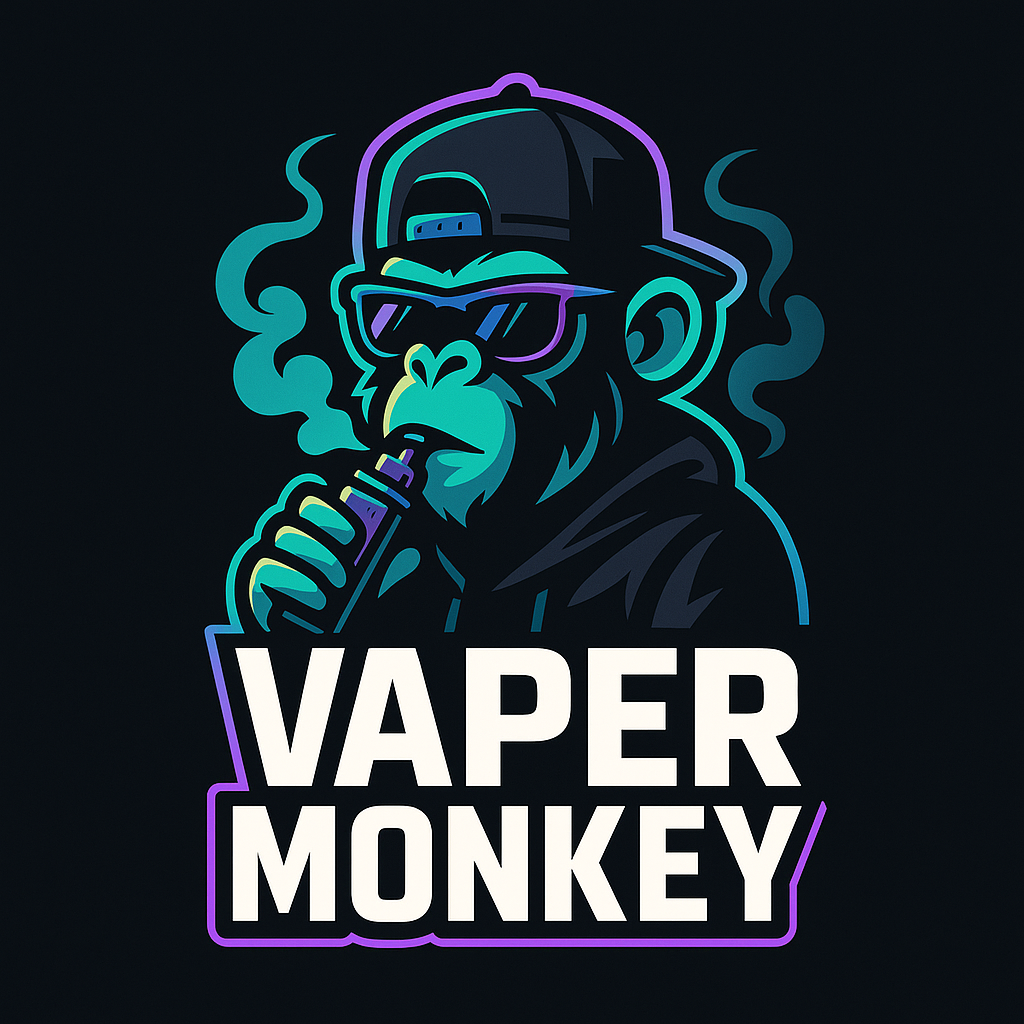
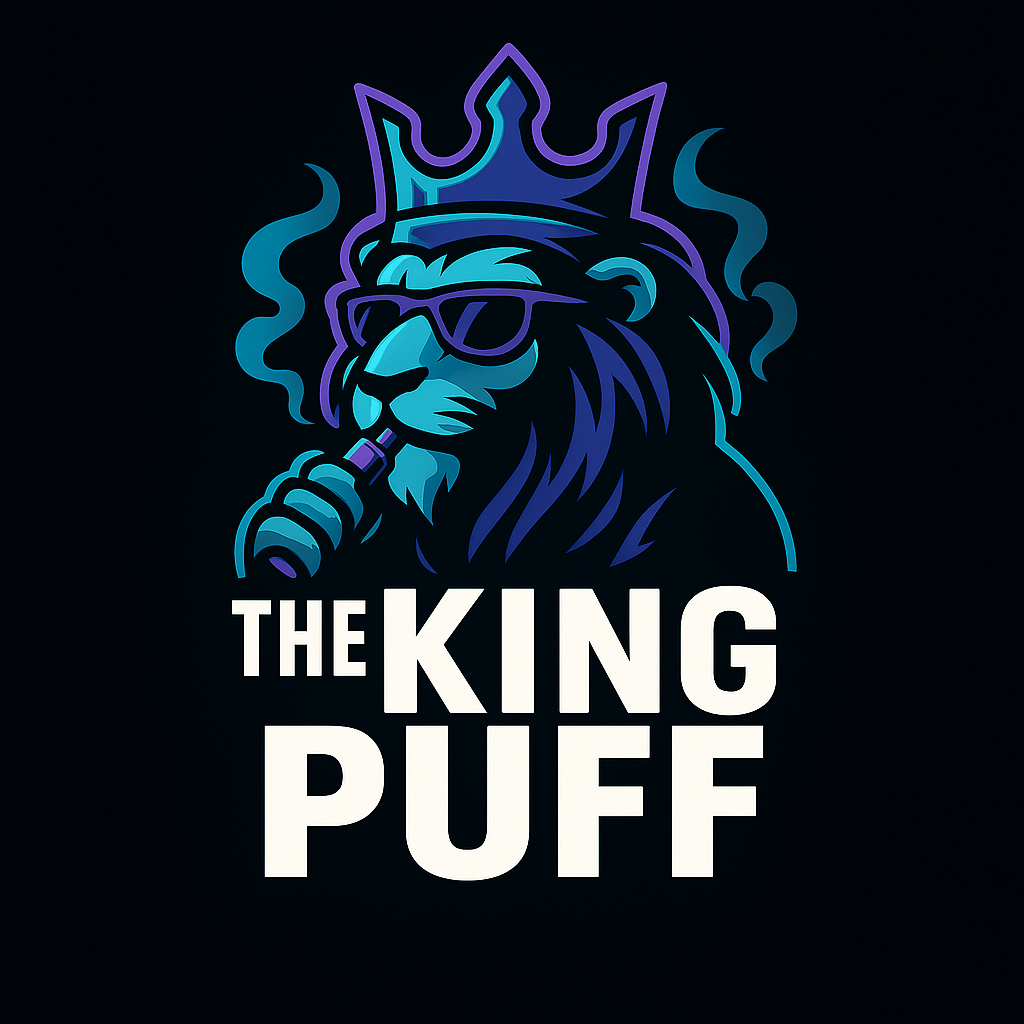
Projecto Acabado 1/1

Changed region(s): [[0.1875, 0.0312, 0.8125, 0.9375]]

diff --git a/index.html b/index.html
@@ -2,7 +2,7 @@
 <html lang="es">
 <head>
   <meta charset="UTF-8" />
-  <title>Vaper Monkey</title>
+  <title>The King Puff</title>
   <link rel="icon" href="content.png" type="image/x-icon">
   <meta name="viewport" content="width=device-width, initial-scale=1" />
 
@@ -21,8 +21,8 @@
       <a href="index.html" class="logo">
         <span class="logo-mark"><img src="content.png" alt=""></span>
         <span class="logo-text">
-          <span class="logo-top">Vaper</span>
-          <span class="logo-bottom">Monkey</span>
+          <span class="logo-top">The King</span>
+          <span class="logo-bottom">Puff</span>
         </span>
       </a>
 
@@ -68,7 +68,7 @@
       <div class="hero-content reveal">
         <p class="hero-tagline"></p>
         <h1 class="hero-title">
-          El vapeo más <span>sabroso</span> de la <span>jungla</span> 🌴🐒💨
+          El vapeo más <span>sabroso</span> de la <span>jungla</span> 🦁💨
         </h1>
         <p class="hero-subtitle">
         </p>
@@ -152,8 +152,8 @@
       <div class="logo footer-logo">
         <span class="logo-mark"><img src="content.png" alt=""></span>
         <span class="logo-text">
-          <span class="logo-top">Vaper</span>
-          <span class="logo-bottom">Monkey</span>
+          <span class="logo-top">Yhe King</span>
+          <span class="logo-bottom">Puff</span>
         </span>
       </div>
 
@@ -188,7 +188,7 @@
   </div>
 
   <div class="footer-bottom">
-    © <span id="year"></span> Vaper Monkey
+    © <span id="year"></span> The King Puff. Todos los derechos reservados.
   </div>
 </footer>
 

diff --git a/api/sendEmail.js b/api/sendEmail.js
@@ -27,7 +27,7 @@ export default async function handler(req, res) {
 
     // Email al ADMIN
     await transporter.sendMail({
-      from: `"Vaper Monkey Bot" <${process.env.GMAIL_USER}>`,
+      from: `"The King Puff Bot" <${process.env.GMAIL_USER}>`,
       to: process.env.ADMIN_EMAIL,
       subject: "📩 Nueva reserva recibida",
       text: `
@@ -46,9 +46,9 @@ Nueva reserva:
 
     // Email al CLIENTE
     await transporter.sendMail({
-      from: `"Vaper Monkey" <${process.env.GMAIL_USER}>`,
+      from: `"The King Puff" <${process.env.GMAIL_USER}>`,
       to: email,
-      subject: "✅ Reserva confirmada - Vaper Monkey",
+      subject: "✅ Reserva confirmada - The King Puff",
       text: `
 Hola ${nombre},
 
@@ -59,12 +59,12 @@ Hola ${nombre},
 
 🕐 Hora del pedido: ${hora}
 
-Nos pondremos en contacto contigo pronto por Instagram: @vaper__monkey
+¡Ya lo hemos reservado para ti! Pasate cuando puedas. 😜
 
 C/Plaza Santa Maria, 26, 41620 Marchena, Sevilla
 
 Gracias por tu compra,
-Vaper Monkey 🐒🌴💨
+The King Puff 🐒🌴💨
       `
     });
 

diff --git a/login.html b/login.html
@@ -2,7 +2,7 @@
 <html lang="es">
 <head>
   <meta charset="UTF-8">
-  <title>Iniciar sesión – Vaper Monkey</title>
+  <title>Iniciar sesión – The King Puff</title>
   <meta name="viewport" content="width=device-width, initial-scale=1">
 
   <link href="https://fonts.googleapis.com/css2?family=Orbitron:wght@500;700&family=Poppins:wght@300;400;600;700&display=swap" rel="stylesheet">
@@ -14,10 +14,10 @@
 <header class="header">
   <div class="container header-inner">
     <a href="index.html" class="logo">
-      <span class="logo-mark">🐒</span>
+      <span class="logo-mark">🦁</span>
       <span class="logo-text">
-        <span class="logo-top">Vaper</span>
-        <span class="logo-bottom">Monkey</span>
+        <span class="logo-top">The King</span>
+        <span class="logo-bottom">Puff</span>
       </span>
     </a>
   </div>

diff --git a/admin.html b/admin.html
@@ -2,7 +2,7 @@
 <html lang="es">
 <head>
   <meta charset="UTF-8">
-  <title>Panel Admin — Vaper Monkey</title>
+  <title>Panel Admin — The King Puff</title>
   <link rel="stylesheet" href="style.css">
 </head>
 
@@ -13,8 +13,8 @@
     <a class="logo" href="index.html">
       <span class="logo-mark"><img src="content.png"></span>
       <span>
-        <span class="logo-top">Vaper</span>
-        <span class="logo-bottom">Monkey</span>
+        <span class="logo-top">The King</span>
+        <span class="logo-bottom">Puff</span>
       </span>
     </a>
   </div>

diff --git a/producto.html b/producto.html
@@ -15,10 +15,10 @@
 <header class="header">
   <div class="container header-inner">
     <a href="index.html" class="logo">
-      <span class="logo-mark">🐒</span>
+      <span class="logo-mark">🦁</span>
       <span class="logo-text">
-        <span class="logo-top">Vaper</span>
-        <span class="logo-bottom">Monkey</span>
+        <span class="logo-top">The King</span>
+        <span class="logo-bottom">Puff</span>
       </span>
     </a>
   </div>

diff --git a/register.html b/register.html
@@ -14,10 +14,10 @@
 <header class="header">
   <div class="container header-inner">
     <a href="index.html" class="logo">
-      <span class="logo-mark">🐒</span>
+      <span class="logo-mark">🦁</span>
       <span class="logo-text">
-        <span class="logo-top">Vaper</span>
-        <span class="logo-bottom">Monkey</span>
+        <span class="logo-top">The King</span>
+        <span class="logo-bottom">King</span>
       </span>
     </a>
   </div>
